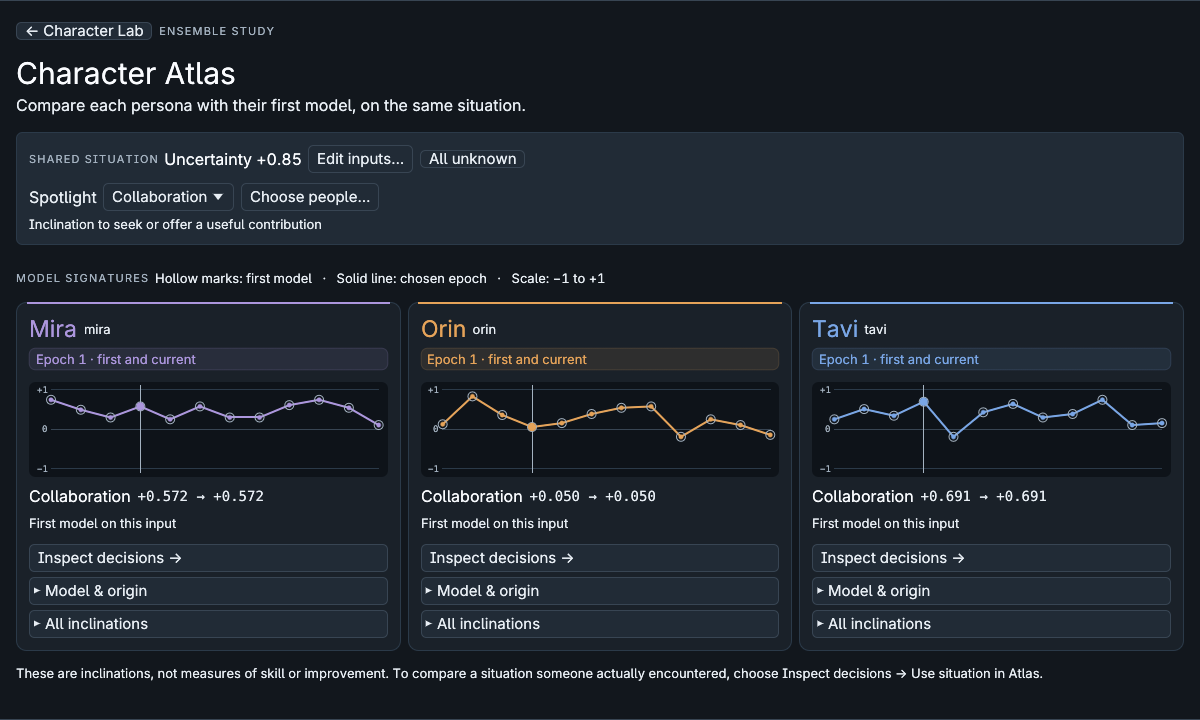
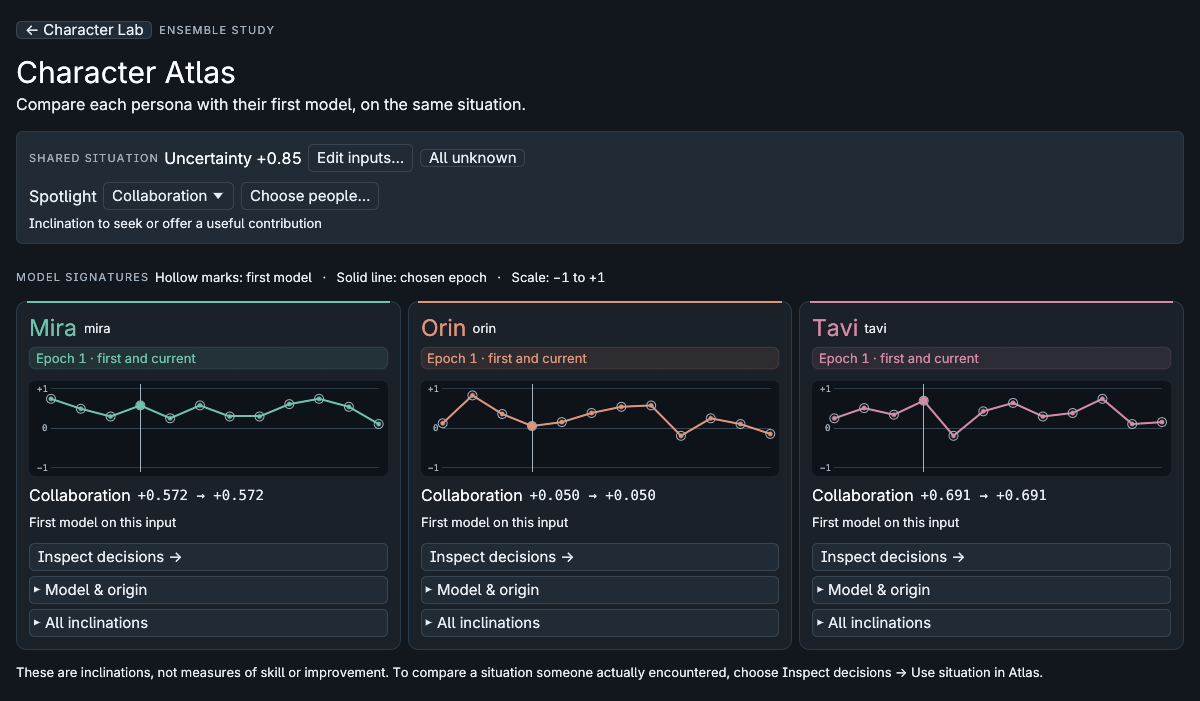
Keep Studio identity colours stable as the roster changes and document Atlas evidence

Changed region(s): [[0.0, 0.0899, 0.9867, 0.6291], [0.0, 0.6591, 1.0, 1.0]]

diff --git a/src/desktop/neural.rs b/src/desktop/neural.rs
@@ -647,12 +647,7 @@ impl App {
             .collect()
     }
     fn color(&self, id: &str) -> Color32 {
-        let index = self
-            .records("personas")
-            .iter()
-            .position(|p| p["body"]["id"] == id)
-            .unwrap_or(0);
-        persona_color(index)
+        persona_color(id)
     }
     fn save_layout(&self) {
         if let Ok(bytes) = serde_json::to_vec_pretty(&self.layout) {
@@ -850,9 +845,15 @@ fn time_label(ts: i64) -> String {
         ts.rem_euclid(60)
     )
 }
-fn persona_color(index: usize) -> Color32 {
-    let colors = [TEAL, PURPLE, theme::ACCENT, Color32::from_rgb(121, 166, 230), Color32::from_rgb(219, 134, 158)];
-    colors[index % colors.len()]
+/// A continuing identity keeps its hue when someone joins, leaves or is
+/// filtered out. Names and exact IDs, not colours, distinguish people.
+fn persona_color(id: &str) -> Color32 {
+    let colors = [theme::ACCENT, Color32::from_rgb(219, 134, 158), PURPLE,
+        Color32::from_rgb(121, 166, 230), TEAL, theme::GREEN];
+    let hash = id.bytes().fold(0x811c9dc5u32, |h, byte| (h ^ u32::from(byte)).wrapping_mul(16777619));
+    let slot = hash as usize % (colors.len() * 256);
+    let index = slot / 256;
+    colors[index].lerp_to_gamma(colors[(index + 1) % colors.len()], (slot % 256) as f32 / 256.)
 }
 fn eyebrow(ui: &mut Ui, text: &str) {
     ui.label(

diff --git a/src/desktop/neural/atlas.rs b/src/desktop/neural/atlas.rs
@@ -198,8 +198,7 @@ impl Panel {
         let visible: Vec<_> = report
             .people
             .iter()
-            .enumerate()
-            .filter(|(_, e)| !self.hidden.contains(&e.owner))
+            .filter(|e| !self.hidden.contains(&e.owner))
             .collect();
         if visible.is_empty() {
             ui.label(if report.people.is_empty() {
@@ -222,13 +221,13 @@ impl Panel {
         let cols = ((ui.available_width() / 268.).floor() as usize).clamp(1, visible.len());
         for group in visible.chunks(cols) {
             ui.columns(cols, |columns| {
-                for ((index, entry), column) in group.iter().zip(columns) {
+                for (entry, column) in group.iter().zip(columns) {
                     column.push_id(&entry.owner, |ui| {
                         let selected = self.epochs.get(&entry.owner).copied();
                         let (choice, result) = portrait::show(
                             ui,
                             entry,
-                            persona_color(*index),
+                            persona_color(&entry.owner),
                             &contract,
                             &mut self.focus,
                             selected,

diff --git a/docs/design-conformance.md b/docs/design-conformance.md
@@ -363,6 +363,14 @@ In another activity Sami received the previous library name, no exact handle and
 
 A separate, intentional duplicate import then returned the original registration, its exact version and its warning alongside the new registration. Sami received this result and reported both names and qualifications. This tests discovery across a move and a duplicate. Sustained organization and retrieval quality across many independent changes remains open.
 
+## Comparing people with their earlier selves
+
+The [Character Atlas](assets/studio-character-atlas.png) adds an operator comparison to [design `7d86efb`](https://github.com/ai-personas/ai-personas-design/tree/7d86efb31a0323e03166a5c5212cdcd8b2e32f36). It uses each identity’s attributed origin and verified adopted epochs, not a group average or an unadopted candidate. [Shared-input CLI](https://github.com/ai-personas/ai-personas-runtime/commit/0f95f97457ddf6abe7d8dcce9b7d01e72c7d6e49) · [Native portraits](https://github.com/ai-personas/ai-personas-runtime/commit/2c611b874d7ac6d2ebf3f3b9ae56774ca86b0d2e) · [Recorded-input replay](https://github.com/ai-personas/ai-personas-runtime/commit/f692cff581f730a27e7d7212645a70bf26c3eed1)
+
+In a copy of the five-person workspace, Studio displayed Mira, Orin and Tavi on one operator-selected input. Clicking collaboration highlighted that inclination for all three. Orin’s portrait opened the accepted choices that used his first model. In the packaged Linux Studio, a newly added identity appeared on the open board with its attributed profile and no numerical plot. Mira, Orin and Tavi retained the same three displayed colours as their cards moved. In a separate copy of Ren’s workspace, the operator selected one contextual decision after rollback. Its inputs included ambiguity +0.2 and uncertainty +0.6. Epoch 3 actually supplied clarification +0.158649; selecting epoch 2 on that same input produced +0.272905, marked **Local comparison · not supplied**. This does not say how Ren would have acted under epoch 2.
+
+An independent calculation checked 384 projected values across the eight retained epochs of six people, including all-unknown, known-zero and mixed inputs. Replaying all 112 of Ren’s accepted ordinary inputs matched 1,344 supplied inclinations. The conditional edit changed a projected value on five contextual inputs and none of the 107 baseline inputs. Missing or duplicated model switches, substituted receipts, responses and inputs did not become valid comparisons. The CLI also read an unwritable copy and a workspace with an uncommitted writer. The two study copies retained identical logical database contents after inspection. These were offline checks on existing records: no new inference, behavioral improvement, live work or physical outcome is claimed.
+
 ## User requirement coverage
 
 The table covers all 46 active identifiers in the upstream requirements index. Each row identifies implementation, observations or outstanding evidence. The design repository owns the publication requirements. Retired identifiers are UR-017 and UR-036 through UR-042. [Authoritative requirements](https://github.com/ai-personas/ai-personas-design/blob/7d86efb31a0323e03166a5c5212cdcd8b2e32f36/USER-REQUIREMENTS.md)
@@ -386,7 +394,7 @@ The table covers all 46 active identifiers in the upstream requirements index. E
 | UR-048, UR-050 | The cohort volunteered for tasks and a conversation without an assigned topic. Two new invitees joined the circuit revision. Library volunteers chose whether to join, leave and assume a released duty across a change of membership. Tavi and Vale revised distinct personal accounts after a later shared shift. Tavi subsequently retrieved the original correspondence for a visiting editor. Long-term behavioral effects of retaining these accounts remain open. |
 | UR-044, UR-045, UR-046, UR-047, UR-049 | The house and circuit amendments led to additional editable work. The exhibit amendment produced a corrected editable 3D house and measured STL after a reviewer found five undersized openings. Participants chose assumptions, revisions, waits and stops. Differing contributions and output quality were observable. The circuit remained partial. |
 | UR-052 | The numerical scheduler records usage, accepts explicit controls and has no application round or cumulative call allowance. The numerical workspace offers scoped file access, static interface inspection, execution of text and compiled import-free WebAssembly modules, installation and use of OpenSCAD and ngspice, and portable WASI Preview 1 commands with arguments, files and streams. Tavi authored and installed a WASI command that Vale subsequently used. The design's general host execution and installation requirement remains partial. The historical journal runtime has a separate host interface. |
-| UR-029, UR-030 | Three personas, two house phases, the three-to-five-person circuit and later tasks were observed. The three original numerical models stayed at their initial epoch. |
+| UR-029, UR-030 | Three personas, two house phases, the three-to-five-person circuit and later tasks were observed. The three original numerical models stayed at their initial epoch. The [Atlas study](#comparing-people-with-their-earlier-selves) compares them on common inputs and follows an actual three-epoch history for Ren; three distinct beneficial development trajectories have not been demonstrated. |
 | UR-032, UR-033 | Immutable inputs, returned decisions, tool observations and later context can be inspected. The records include a failed first render, installation and retry, reuse under a changed design, a reviewer’s missed provenance and its repair. The gallery review also exposed differences between an exported mesh, its plan and a replacement case. Earlier runs recorded unclear numerical benefit and a premature assumption. Attributing harmful or helpful transfer to a numerical change needs further evidence. |
 | UR-034 | Live observations led to changes in work-scoped resumption, computation recovery, contextual selection, development follow-up, direct excerpt returns, duplicate-import provenance replies to invitations and exact mesh-to-render provenance. |
 
